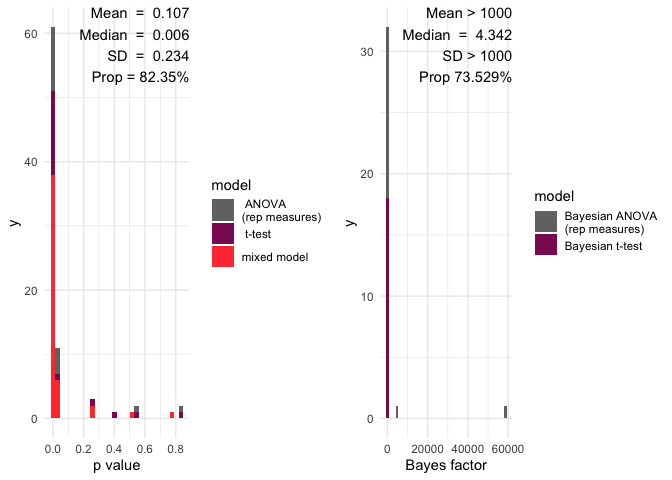
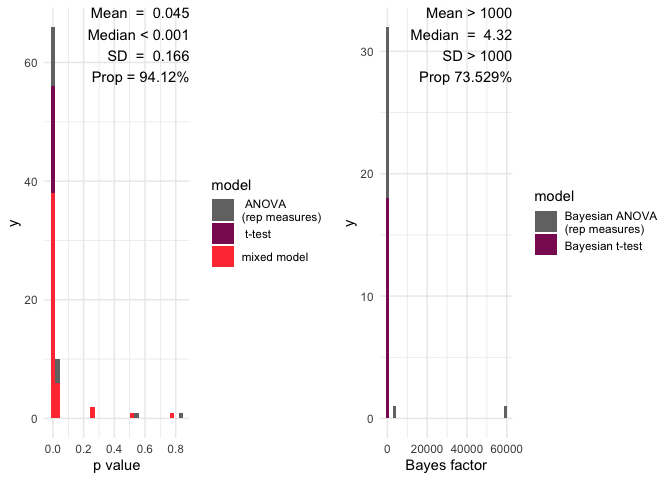
Removed travis and included github actions

diff --git a/README.md b/README.md
@@ -2,10 +2,9 @@
 <!-- README.md is generated from README.Rmd. Please edit that file -->
 <!-- badges: start -->
 
-[![Travis build
-status](https://travis-ci.org/AngelosPsy/multifear.svg?branch=master)](https://travis-ci.org/AngelosPsy/multifear)
 [![codecov](https://codecov.io/gh/AngelosPsy/multifear/branch/master/graph/badge.svg)](https://codecov.io/gh/AngelosPsy/multifear)
 [![R-CMD-check](https://github.com/AngelosPsy/multifear/workflows/R-CMD-check/badge.svg)](https://github.com/AngelosPsy/multifear/actions)
+[![R-CMD-check](https://github.com/AngelosPsy/multifear/actions/workflows/R-CMD-check.yaml/badge.svg)](https://github.com/AngelosPsy/multifear/actions/workflows/R-CMD-check.yaml)
 <!-- badges: end -->
 
 # Multifear
@@ -135,24 +134,24 @@ Now we need to analyse the data. For this we will use the
 *multifear::universe_cs* function. In order for this function to work,
 we need to provide the following arguments.
 
--   CS1: This will be the column names that contain the conditioned
-    responses for the CS+ (i.e., CSP1 until CSP10).
+- CS1: This will be the column names that contain the conditioned
+  responses for the CS+ (i.e., CSP1 until CSP10).
 
--   CS2: This will be the column names that contain the conditioned
-    response for the CS- (i.e., CSM1 until CSM10).
+- CS2: This will be the column names that contain the conditioned
+  response for the CS- (i.e., CSM1 until CSM10).
 
--   data: This is our data frame that contain that data for the CS+,
-    CS-, as well as the column with the participant number.
+- data: This is our data frame that contain that data for the CS+, CS-,
+  as well as the column with the participant number.
 
--   group. In case of a group, then we need to specify the column with
-    the group name. The default option is that there are no groups. In
-    this first example we do not use any groups but we will do that in
-    our second example – see below.
+- group. In case of a group, then we need to specify the column with the
+  group name. The default option is that there are no groups. In this
+  first example we do not use any groups but we will do that in our
+  second example – see below.
 
--   phase. Here we define the conditioning phase that the data were
-    collected in (e.g., acquisition phase, extinction phase, etc).
-    Please note that in case the user has multiple phases, she/he needs
-    to run the function separately for each phases.
+- phase. Here we define the conditioning phase that the data were
+  collected in (e.g., acquisition phase, extinction phase, etc). Please
+  note that in case the user has multiple phases, she/he needs to run
+  the function separately for each phases.
 
 There are some other options in the function, such as defining the type
 of conditioning response. However, these are not necessary for now. So,
@@ -173,11 +172,11 @@ res
 #> # A tibble: 4 × 20
 #>   x       y     exclusion cut_off   model    controls method p.value effect.size
 #>   <chr>   <chr> <chr>     <chr>     <chr>    <lgl>    <chr>    <dbl>       <dbl>
-#> 1 cs      scr   full data full data t-test   NA       great… 0.00244      0.577 
-#> 2 cs      scr   full data full data t-test   NA       two.s… 0.00488      0.577 
-#> 3 cs:time scr   full data full data rep ANO… NA       rep A… 0.0152       0.0296
-#> 4 cs      scr   full data full data rep ANO… NA       rep A… 0.00488      0.147 
-#> # … with 11 more variables: effect.size.lci <dbl>, effect.size.hci <dbl>,
+#> 1 cs      scr   full data full data t-test   NA       great… 3.33e-5      0.577 
+#> 2 cs      scr   full data full data t-test   NA       two.s… 6.67e-5      0.577 
+#> 3 cs:time scr   full data full data rep ANO… NA       rep A… 1.52e-2      0.0296
+#> 4 cs      scr   full data full data rep ANO… NA       rep A… 4.88e-3      0.147 
+#> # ℹ 11 more variables: effect.size.lci <dbl>, effect.size.hci <dbl>,
 #> #   effect.size.ma <dbl>, effect.size.ma.lci <dbl>, effect.size.ma.hci <dbl>,
 #> #   estimate <dbl>, statistic <dbl>, conf.low <dbl>, conf.high <dbl>,
 #> #   framework <chr>, data_used <list>
@@ -185,49 +184,46 @@ res
 
 Let’s go through each column separately
 
--   x : is the effect that you are testing. For example, the cs means
-    that you are testing cs differences. cs:time the cs X time
-    interaction is tested. Be careful: when testing interactions, we
-    only report the highest order interaction. That means that if you
-    have a cs x time interaction, you do not get the results of the cs
-    or the time main effect.
+- x : is the effect that you are testing. For example, the cs means that
+  you are testing cs differences. cs:time the cs X time interaction is
+  tested. Be careful: when testing interactions, we only report the
+  highest order interaction. That means that if you have a cs x time
+  interaction, you do not get the results of the cs or the time main
+  effect.
 
--   y: the dependent variable. In the example this is the *scr*
-    responses.
+- y: the dependent variable. In the example this is the *scr* responses.
 
--   exclusion: This columns reports as to what data were included in the
-    data set. For example, here you see that we have only full data sets
-    – no exclusion. This is because the multifear::universe_cs() only
-    analyses full data sets. If we want to apply some exclusion
-    criteria, we need to run the multifear::multiverse_cs() function –
-    see later on.
+- exclusion: This columns reports as to what data were included in the
+  data set. For example, here you see that we have only full data sets –
+  no exclusion. This is because the multifear::universe_cs() only
+  analyses full data sets. If we want to apply some exclusion criteria,
+  we need to run the multifear::multiverse_cs() function – see later on.
 
--   model: What model was used. For example, here we see t-tests, and
-    rep ANOVA (which means repeated measures ANOVA).
+- model: What model was used. For example, here we see t-tests, and rep
+  ANOVA (which means repeated measures ANOVA).
 
--   controls: This column is left empty. I included it because the specs
-    R package had it so we may need to use it later on.
+- controls: This column is left empty. I included it because the specs R
+  package had it so we may need to use it later on.
 
--   method: The method is a combination of the *model* and *x* column.
-    Not really necessary if the other two columns exist.
+- method: The method is a combination of the *model* and *x* column. Not
+  really necessary if the other two columns exist.
 
--   p.value: The p-value of the test
+- p.value: The p-value of the test
 
--   estimate: The estimate that is returned from the test. Keep in mind
-    though that this applies only for the t-test at the moment. We need
-    to see what we can do for the ANOVA,
+- estimate: The estimate that is returned from the test. Keep in mind
+  though that this applies only for the t-test at the moment. We need to
+  see what we can do for the ANOVA,
 
--   statistic. The statistic of the test
+- statistic. The statistic of the test
 
--   conf.low and conf.high In case you have an estimate, this returns
-    the low and high levels of it
+- conf.low and conf.high In case you have an estimate, this returns the
+  low and high levels of it
 
--   framework were the data analysed within a NHST or Bayesian
-    framework?
+- framework were the data analysed within a NHST or Bayesian framework?
 
--   data_used Here you have a data frame with the data used for the
-    performed analyses. This is because someone maybe wants to recreate
-    the results and also as a check that nothing went wrong.
+- data_used Here you have a data frame with the data used for the
+  performed analyses. This is because someone maybe wants to recreate
+  the results and also as a check that nothing went wrong.
 
 Now, we want to perform the same analyses but for different data
 reduction procedures (see below). We can do it simply by:
@@ -242,8 +238,8 @@ res_multi
 #> # A tibble: 116 × 21
 #>    x         y     exclusion cut_off model controls method   p.value effect.size
 #>    <chr>     <chr> <chr>     <chr>   <chr> <lgl>    <chr>      <dbl>       <dbl>
-#>  1 cs        scr   full_data full d… t-te… NA       great…  2.44e- 3      0.577 
-#>  2 cs        scr   full_data full d… t-te… NA       two.s…  4.88e- 3      0.577 
+#>  1 cs        scr   full_data full d… t-te… NA       great…  3.33e- 5      0.577 
+#>  2 cs        scr   full_data full d… t-te… NA       two.s…  6.67e- 5      0.577 
 #>  3 cs        scr   full_data full d… Baye… NA       Bayes… NA            NA     
 #>  4 cs        scr   full_data full d… Baye… NA       Bayes… NA            NA     
 #>  5 cs:time   scr   full_data full d… rep … NA       rep A…  1.52e- 2      0.0296
@@ -252,10 +248,11 @@ res_multi
 #>  8 cscs2:ti… scr   full_data <NA>    mixe… NA       mixed…  5.92e- 7     NA     
 #>  9 cscs2     scr   full_data <NA>    mixe… NA       mixed…  1.82e- 5     NA     
 #> 10 cscs2:ti… scr   full_data <NA>    mixe… NA       mixed…  2.16e- 2     NA     
-#> # … with 106 more rows, and 12 more variables: effect.size.lci <dbl>,
-#> #   effect.size.hci <dbl>, effect.size.ma <dbl>, effect.size.ma.lci <dbl>,
-#> #   effect.size.ma.hci <dbl>, estimate <dbl>, statistic <dbl>, conf.low <dbl>,
-#> #   conf.high <dbl>, framework <chr>, data_used <list>, efffect.size.ma <lgl>
+#> # ℹ 106 more rows
+#> # ℹ 12 more variables: effect.size.lci <dbl>, effect.size.hci <dbl>,
+#> #   effect.size.ma <dbl>, effect.size.ma.lci <dbl>, effect.size.ma.hci <dbl>,
+#> #   estimate <dbl>, statistic <dbl>, conf.low <dbl>, conf.high <dbl>,
+#> #   framework <chr>, data_used <list>, efffect.size.ma <lgl>
 ```
 
 In terms of calling the function, we see that we need exactly the same
@@ -276,50 +273,50 @@ res_multi$exclusion %>% unique()
 
 The explanation of each level is the following:
 
-1.  fl2trials: first and last two trials.
+1)  fl2trials: first and last two trials.
 
-2.  fltrials: first and last trial
+2)  fltrials: first and last trial
 
-3.  full_data: full data set
+3)  full_data: full data set
 
-4.  halves: use the first and last half of the trial. So, if you have 10
+4)  halves: use the first and last half of the trial. So, if you have 10
     trials, you will have the first 5 and last 5 trials
 
-5.  min_first: take all trials apart from the first one
+5)  min_first: take all trials apart from the first one
 
-6.  separate trials per 2
+6)  separate trials per 2
 
-7.  separate trials per 10%
+7)  separate trials per 10%
 
-8.  separate trials per 33%
+8)  separate trials per 33%
 
-9.  separate trials per 20%
+9)  separate trials per 20%
 
 ## Inferences
 
 This is the most challenging part. For now you can use the following
 function and you will get:
 
-1.  A histogram will all the p value and a red line showing the
+1)  A histogram will all the p value and a red line showing the
     significance limit – by default alpha = 0.05
 
-2.  A histogram will all the Bayes factors and a red line showing the
+2)  A histogram will all the Bayes factors and a red line showing the
     limit of inconclusive evidence – by default this is 0
 
-3.  Mean and median p values
+3)  Mean and median p values
 
-4.  the number of p values below the significance level
+4)  the number of p values below the significance level
 
-5.  Mean and median of Bayes factors
+5)  Mean and median of Bayes factors
 
-6.  the proportion of Bayes factors above 1
+6)  the proportion of Bayes factors above 1
 
 ``` r
 multifear::inference_cs(res_multi, na.rm = TRUE)
 #>   mean_p_value median_p_value sd_p_value prop_p_value mean_bf_value
-#> 1    0.1074323     0.00638261  0.2341194     82.35294      1868.888
+#> 1   0.04462268   0.0002425968  0.1662026     94.11765      1888.148
 #>   median_bf_value sd_bf_value prop_bf_value
-#> 1        4.341644    10044.94      73.52941
+#> 1        4.319848    10161.98      73.52941
 ```
 
 And here we have a barplot of the results:
@@ -363,20 +360,21 @@ res_multi_group
 #> # A tibble: 116 × 21
 #>    x         y     exclusion cut_off model controls method   p.value effect.size
 #>    <chr>     <chr> <chr>     <chr>   <chr> <lgl>    <chr>      <dbl>       <dbl>
-#>  1 cs        scr   full_data full d… t-te… NA       great…  3.70e- 2     0.577  
-#>  2 cs        scr   full_data full d… t-te… NA       two.s…  7.41e- 2     0.577  
+#>  1 cs        scr   full_data full d… t-te… NA       great…  3.33e- 5     0.577  
+#>  2 cs        scr   full_data full d… t-te… NA       two.s…  6.67e- 5     0.577  
 #>  3 cs        scr   full_data full d… Baye… NA       Bayes… NA           NA      
 #>  4 cs        scr   full_data full d… Baye… NA       Bayes… NA           NA      
 #>  5 group:cs… scr   full_data full d… rep … NA       rep A…  3.43e- 1     0.00288
-#>  6 group:cs  scr   full_data full d… rep … NA       rep A…  4.60e- 1    -0.00475
+#>  6 group:cs  scr   full_data full d… rep … NA       rep A…  4.60e- 1     0      
 #>  7 cscs2     scr   full_data <NA>    mixe… NA       mixed…  1.80e-13    NA      
 #>  8 cscs2:ti… scr   full_data <NA>    mixe… NA       mixed…  5.92e- 7    NA      
 #>  9 cscs2     scr   full_data <NA>    mixe… NA       mixed…  1.82e- 5    NA      
 #> 10 cscs2:ti… scr   full_data <NA>    mixe… NA       mixed…  2.16e- 2    NA      
-#> # … with 106 more rows, and 12 more variables: effect.size.lci <dbl>,
-#> #   effect.size.hci <dbl>, effect.size.ma <dbl>, effect.size.ma.lci <dbl>,
-#> #   effect.size.ma.hci <dbl>, estimate <dbl>, statistic <dbl>, conf.low <dbl>,
-#> #   conf.high <dbl>, framework <chr>, data_used <list>, efffect.size.ma <lgl>
+#> # ℹ 106 more rows
+#> # ℹ 12 more variables: effect.size.lci <dbl>, effect.size.hci <dbl>,
+#> #   effect.size.ma <dbl>, effect.size.ma.lci <dbl>, effect.size.ma.hci <dbl>,
+#> #   estimate <dbl>, statistic <dbl>, conf.low <dbl>, conf.high <dbl>,
+#> #   framework <chr>, data_used <list>, efffect.size.ma <lgl>
 ```
 
 Accordingly, the inference plots look as follows:
